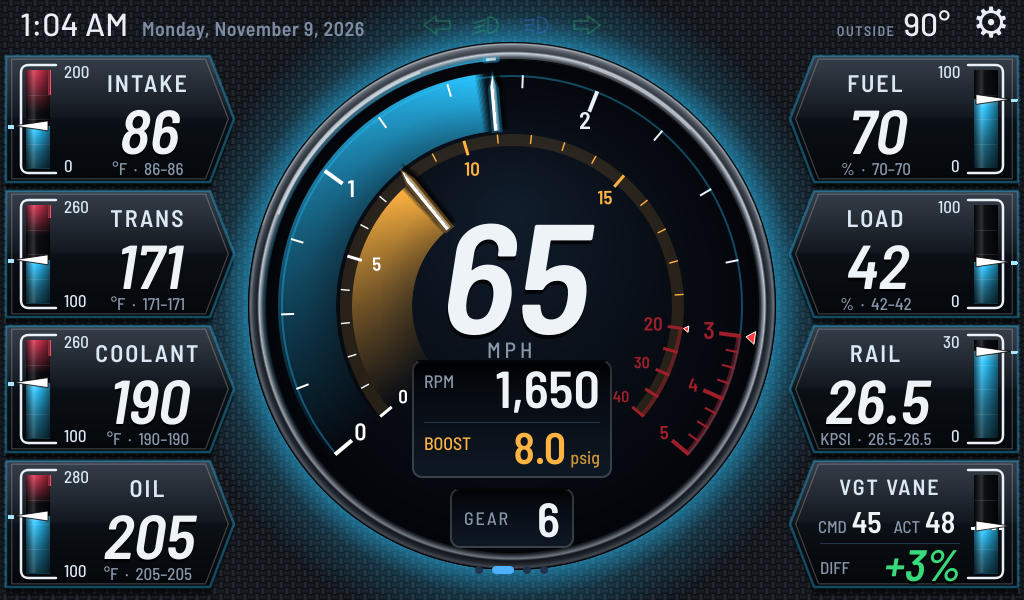
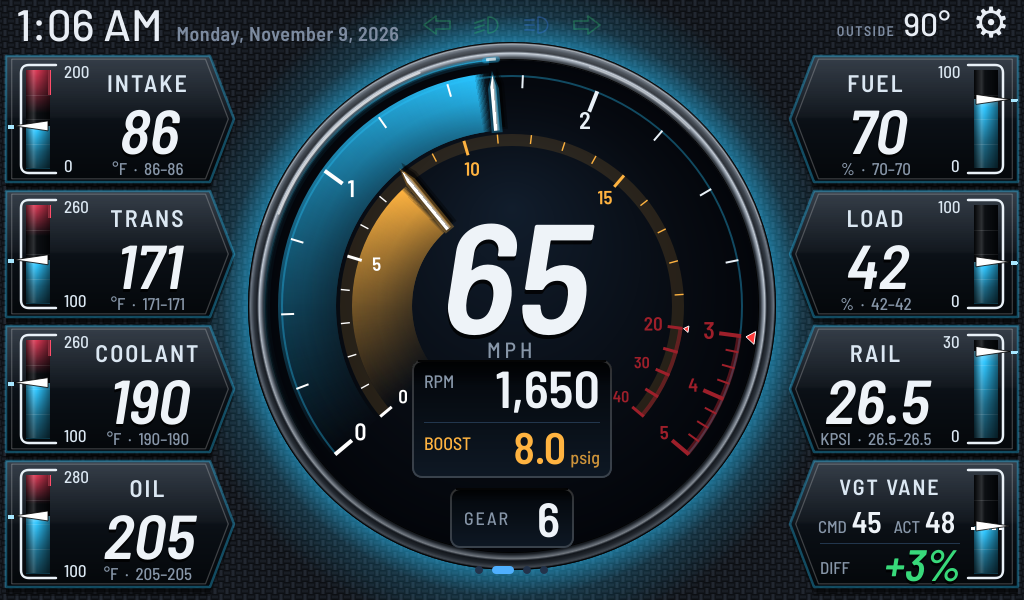
Bigger clock in both top bars (42-44 px); F3 bezel reflection (inner-lip sliver plus bloom at the face edge)
Claude-Session: https://claude.ai/code/session_01NB1fkpFcGY28RY4JZ8NWPC

Changed region(s): [[0.0, 0.0, 0.4062, 0.09], [0.375, 0.12, 0.4375, 0.15], [0.4375, 0.09, 0.4688, 0.12]]

diff --git a/gaugeworks/qml/Main.qml b/gaugeworks/qml/Main.qml
@@ -195,17 +195,17 @@ Rectangle {
                 id: clock
                 visible: !root.oemBar
                 anchors.right: gearIcon.left; anchors.rightMargin: 20; anchors.verticalCenter: parent.verticalCenter
-                color: colors.text; font.family: theme.fonts.digits; font.pixelSize: 20
+                color: colors.text; font.family: theme.fonts.digits; font.pixelSize: 42; font.bold: true
                 Timer { interval: 1000; running: true; repeat: true; triggeredOnStart: true
                         onTriggered: clock.text = Qt.formatTime(new Date(), "h:mm AP") }
             }
             // ---- OEM-style bar (Premium theme): long date + time, telltales, outside temp
             Row {
                 visible: root.oemBar
-                x: 20; y: 4; spacing: 14
+                x: 16; y: -3; spacing: 14
                 Text {
                     id: oemTime
-                    color: colors.text; font.family: theme.fonts.digits; font.pixelSize: 32
+                    color: colors.text; font.family: theme.fonts.digits; font.pixelSize: 44
                     Timer { interval: 1000; running: root.oemBar; repeat: true; triggeredOnStart: true
                             onTriggered: { var n = new Date(); oemTime.text = Qt.formatTime(n, "h:mm AP")
                                            oemDate.text = Qt.formatDate(n, "dddd, MMMM d, yyyy") } }

diff --git a/gaugeworks/qml/TowGauge.qml b/gaugeworks/qml/TowGauge.qml
@@ -260,7 +260,7 @@ Item {
 
     // ---- the RPM light trail reflected in the bezel's inner lip (the part curving down toward the dial).
     // Concentric bands from the inner edge outward, each fainter: a thin sliver, brightest at the edge.
-    property int reflStyle: 2         // 1 hairline sliver, 2 soft inner edge, 3 sliver + bloom onto the face edge, 4 wide soft edge, no glint
+    property int reflStyle: 3         // 1 hairline sliver, 2 soft inner edge, 3 sliver + bloom onto the face edge, 4 wide soft edge, no glint
     readonly property var reflBands: reflStyle === 1 ? [[0, 1.5, 1.0], [1.5, 3, 0.45]]
                                    : reflStyle === 3 ? [[-4, -1.5, 0.18], [-1.5, 0, 0.4], [0, 1.5, 1.0], [1.5, 3, 0.45]]
                                    : reflStyle === 4 ? [[0, 2, 0.75], [2, 4, 0.45], [4, 6, 0.22], [6, 8, 0.08]]
